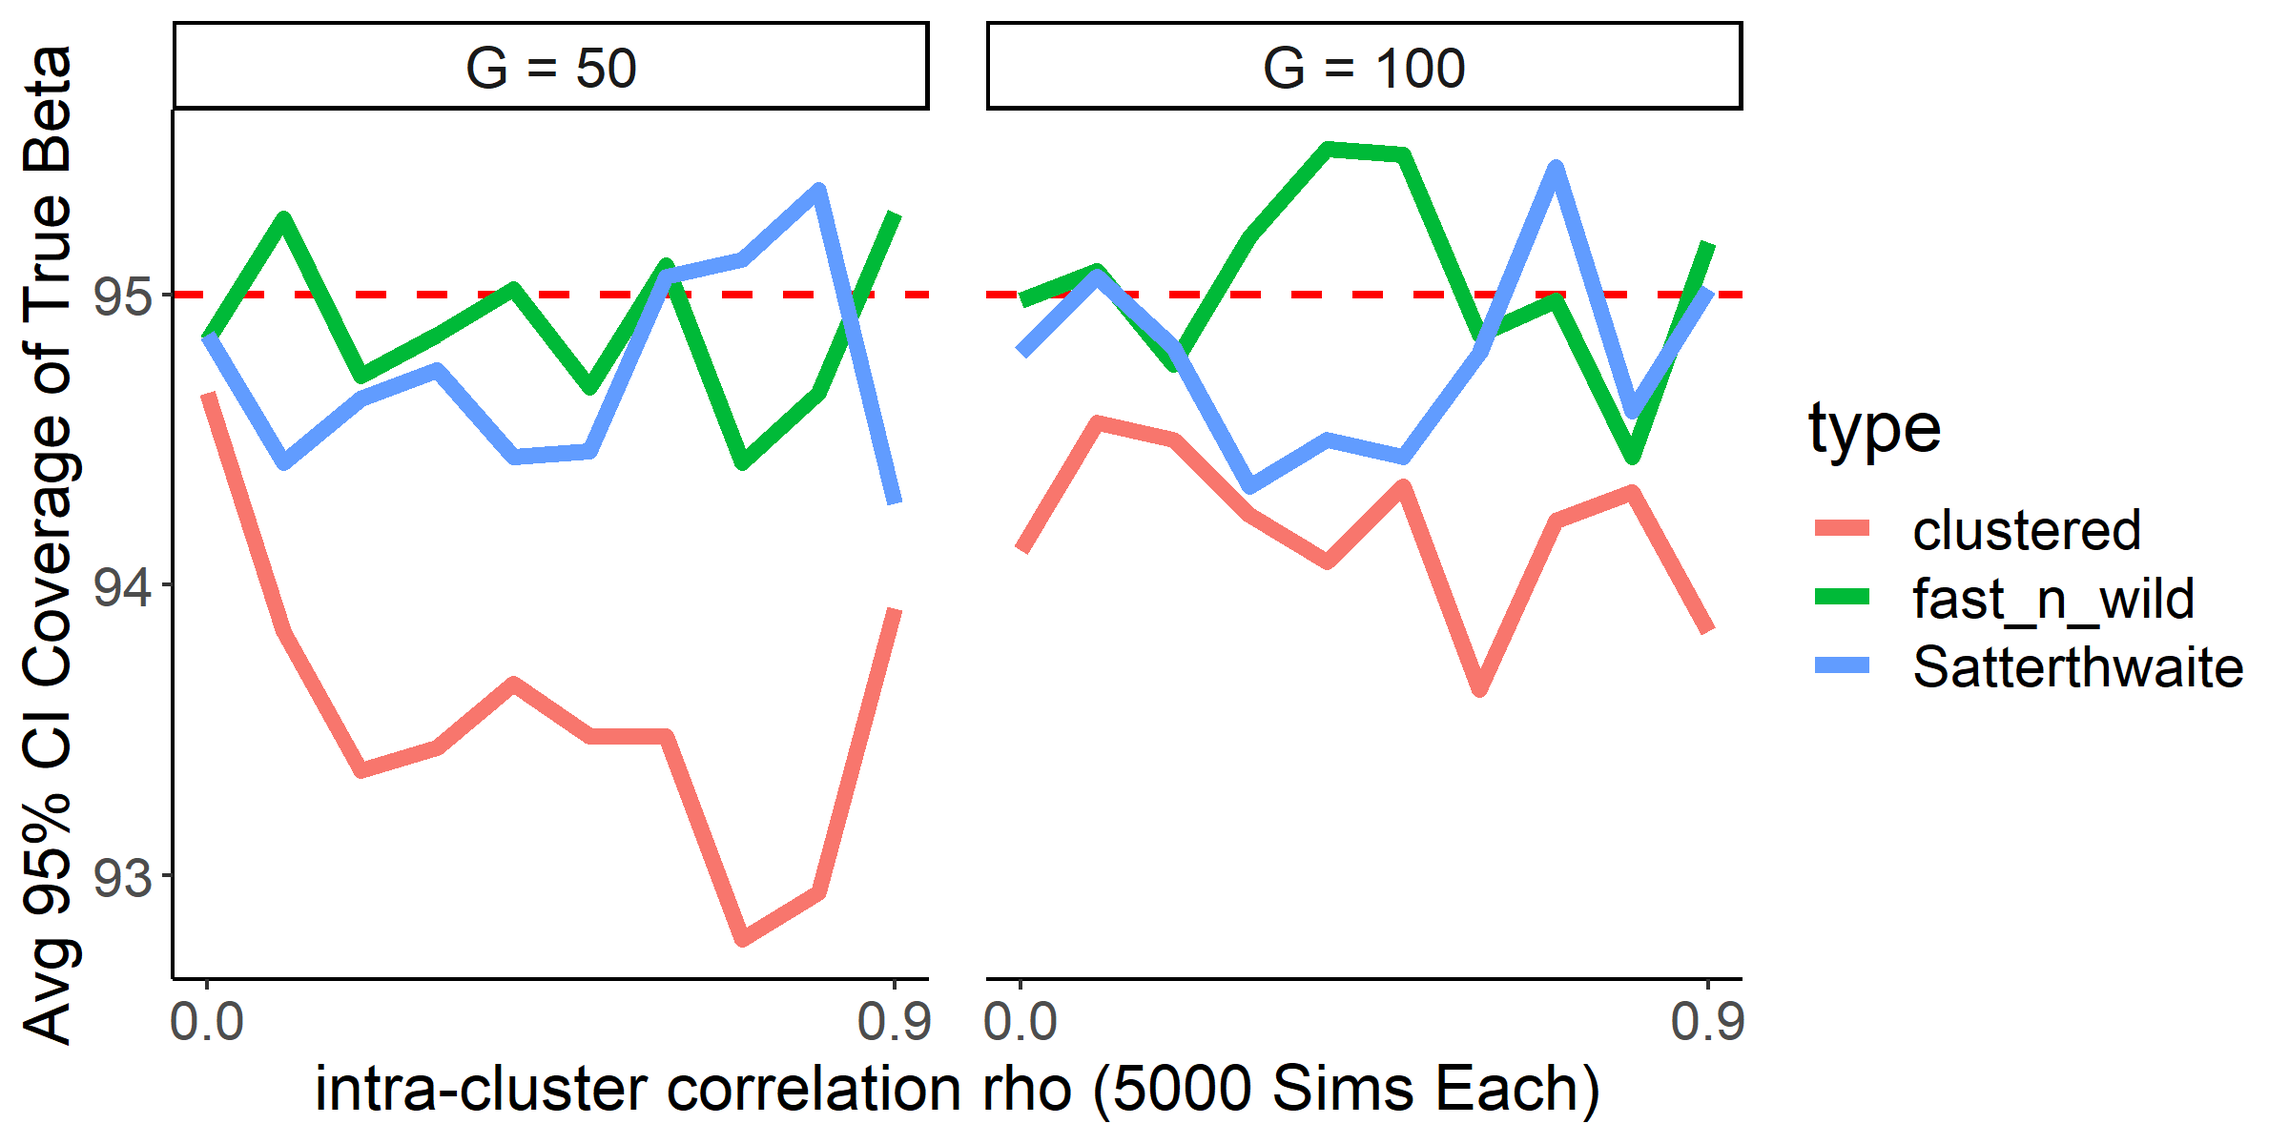
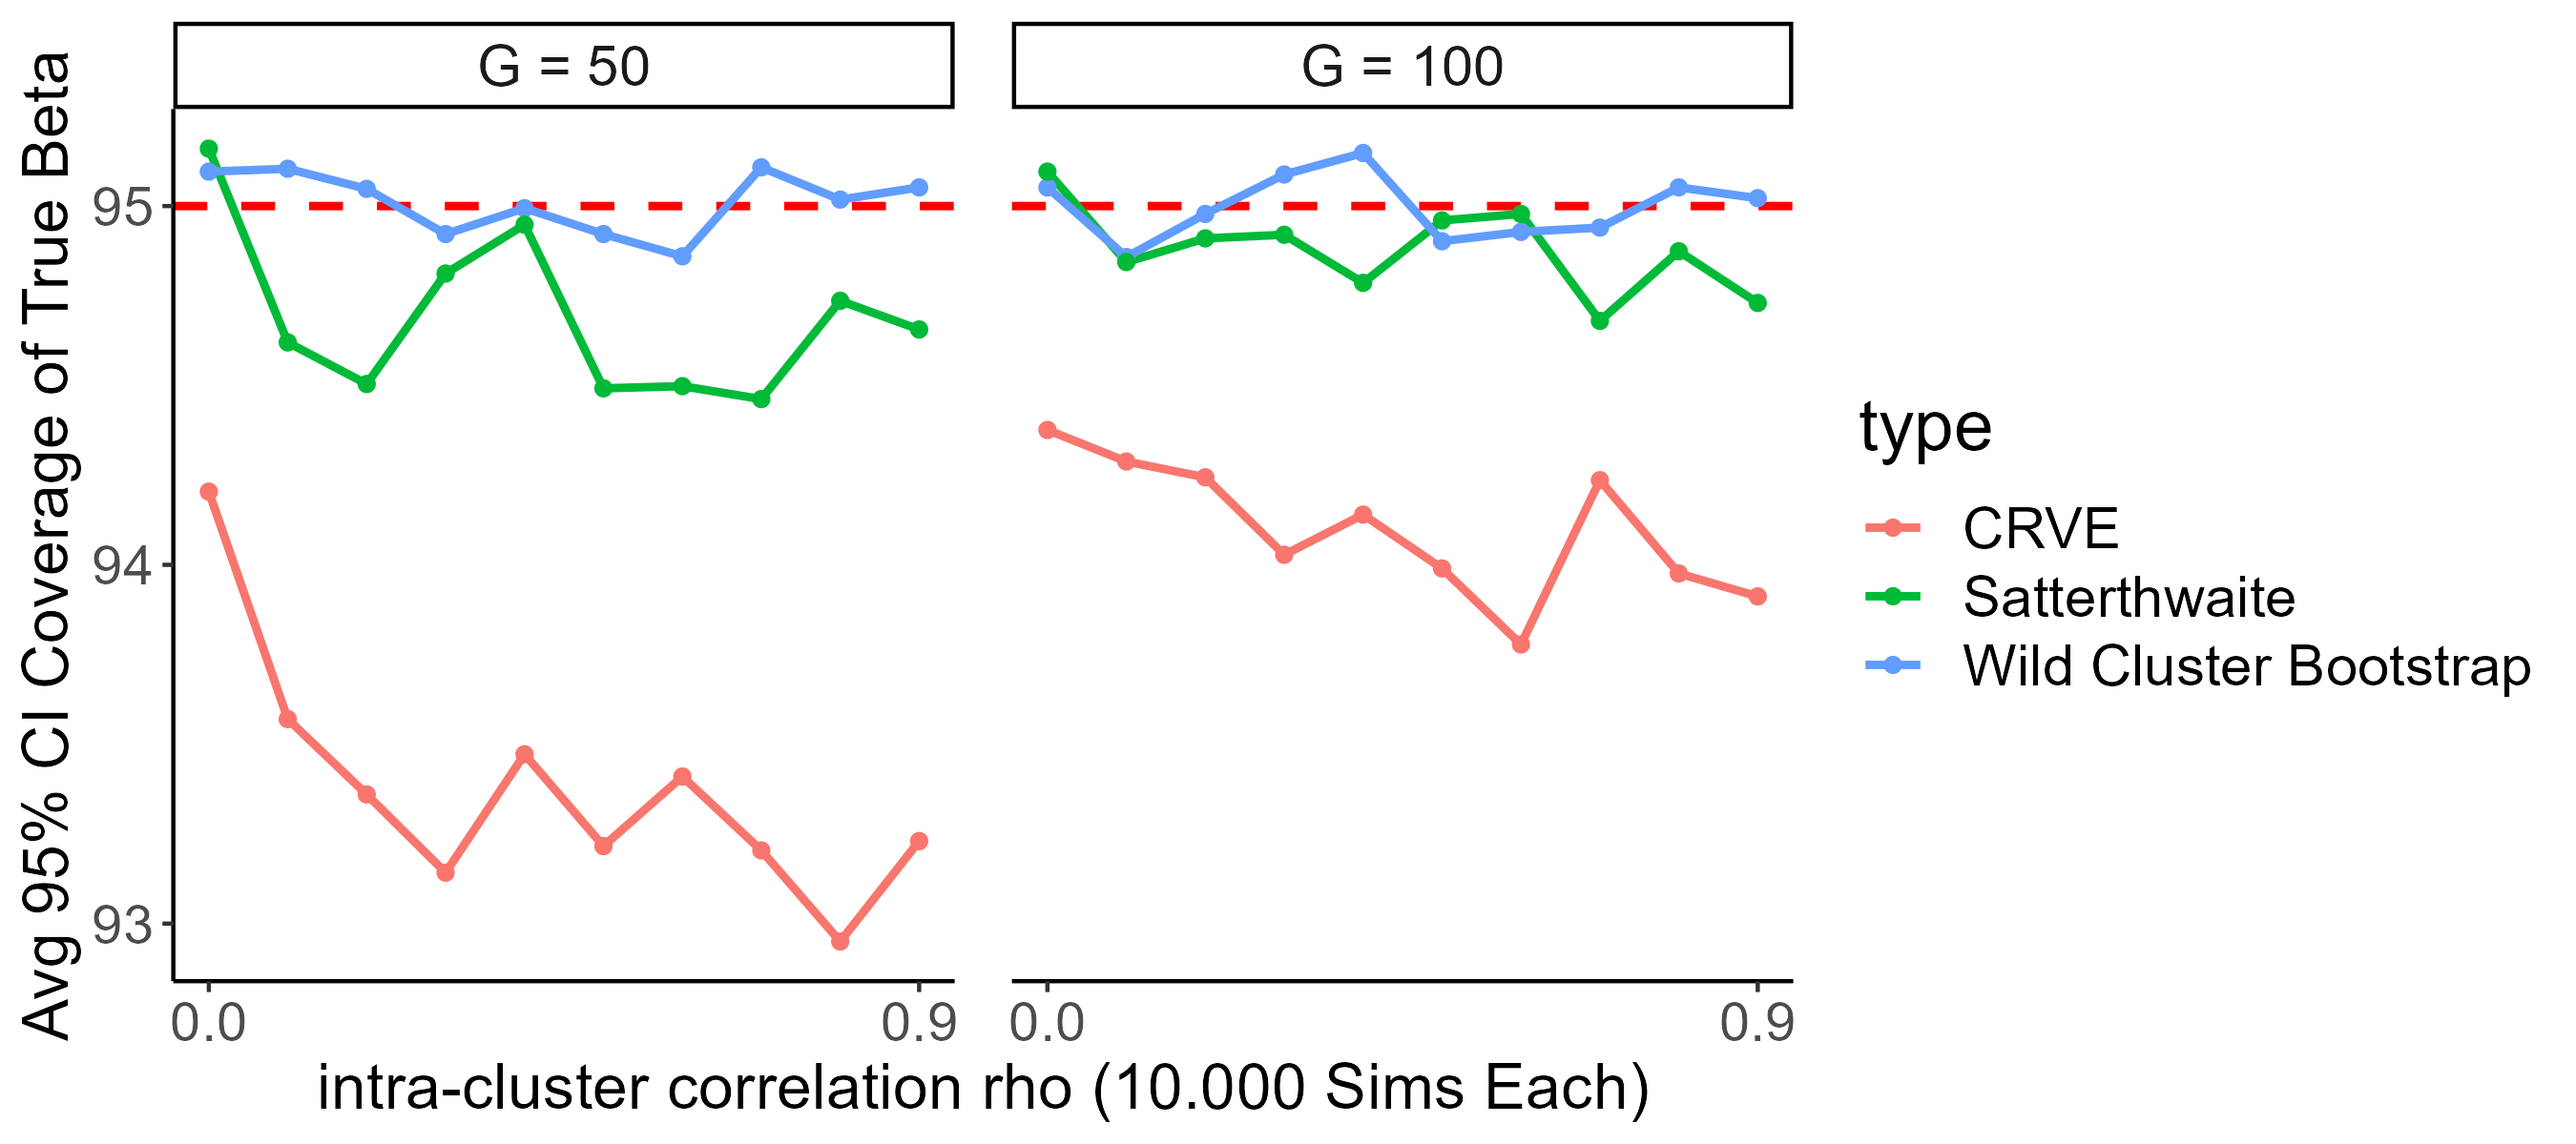
update #4 new figures

diff --git a/content/post/2022-01-29-cluster-robust-inference-when-the-number-of-clusters-is-small-a-horse-race/index.html b/content/post/2022-01-29-cluster-robust-inference-when-the-number-of-clusters-is-small-a-horse-race/index.html
@@ -66,35 +66,34 @@ Figure 2: Simulation results. N = 1000, rho = 0.7, balanced cluster sizes
 </div>
 <div id="simulation-2-wildly-different-cluster-sizes" class="section level4">
 <h4>Simulation 2: Wildly different cluster sizes</h4>
-<p>Instead of simulating balanced cluster sizes, I now follow <a href="https://ageconsearch.umn.edu/record/274639/files/qed_wp_1314.pdf">MacKinnon &amp; Webb</a> and simulate group sizes that mimic the relative size of the US states (minus Washington DC) for <span class="math inline">\(G=50\)</span> and <span class="math inline">\(G = 100\)</span> clusters. The dgp is unchanged, but in parallel to MacKinnon &amp; Webb’s work, I set the number of observations <span class="math inline">\(N\)</span> to <span class="math inline">\(2.000\)</span>. I also increase the number of Monte Carlo simulations to <code>n_sim = 5.000</code> and repeat the analysis for a range of intra-cluster correlations <span class="math inline">\(\rho\)</span>.</p>
+<p>Instead of simulating balanced cluster sizes, I now follow <a href="https://ageconsearch.umn.edu/record/274639/files/qed_wp_1314.pdf">MacKinnon &amp; Webb</a> and simulate group sizes that mimic the relative size of the US states (minus Washington DC) for <span class="math inline">\(G=50\)</span> and <span class="math inline">\(G = 100\)</span> clusters. The dgp is unchanged, but in parallel to MacKinnon &amp; Webb’s work, I set the number of observations <span class="math inline">\(N\)</span> to <span class="math inline">\(2.000\)</span>. I also increase the number of Monte Carlo simulations to <code>n_sim = 10.000</code> and repeat the analysis for a range of intra-cluster correlations <span class="math inline">\(\rho\)</span>.</p>
 <div class="figure" style="text-align: center"><span style="display:block;" id="fig:Figure3"></span>
 <img src="wildly_different.png" alt="Simulation results. N = 2000, 50 and 100 clusters, wildly different cluster sizes" width="75%" />
 <p class="caption">
 Figure 3: Simulation results. N = 2000, 50 and 100 clusters, wildly different cluster sizes
 </p>
 </div>
-<p>Both for <span class="math inline">\(G = 50\)</span> and <span class="math inline">\(G = 100\)</span>, the wild cluster bootstrap and Satterthwaite corrected errors perform equally well and achieve close to 95% coverage for all intra-cluster correlations <span class="math inline">\(\rho\)</span>. The unadjusted CRVE estimates instead tend to over-reject.</p>
+<p>Both for <span class="math inline">\(G = 50\)</span> and <span class="math inline">\(G = 100\)</span>, the wild cluster bootstrap and Satterthwaite corrected errors perform equally well and achieve close to 95% coverage for all intra-cluster correlations <span class="math inline">\(\rho\)</span>. The unadjusted CRVE estimates instead only achieve coverage rates of around 93 and 94%.</p>
 <p>You can reproduce Figure 2 by running</p>
 <pre class="r"><code>wildly_different_sim(n = 2000, n_sims = 5000, workers = 4)</code></pre>
 <p>Once again, note that this function will run for a very long time.</p>
 </div>
 <div id="treatment-effects" class="section level4">
 <h4>Treatment Effects</h4>
-<p>The last simulation investigates a topic that has received considerable attention: regression models where the treatment occurs at the cluster level, but only few clusters are treated (e.g. <a href="https://academic.oup.com/qje/article-abstract/119/1/249/1876068?redirectedFrom=fulltext&amp;login=false">“How much should we trust DiD estimates?</a>“)? For the sake of simplicity, I do not simulate a”full” DiD model with 2-way fixed effects and potential error correlations across time but restrict myself to replacing <span class="math inline">\(X_{ig}\)</span> in the model above by a treatment assignment dummy <span class="math inline">\(D_{ig}\)</span>. (Loosely) following MacKinnon &amp; Webb once again, I then simulate <span class="math inline">\(N=2000\)</span> observations with intra-cluster correlation <span class="math inline">\(\rho = 0.5\)</span> and vary the number of clusters that are treated. The simulations are repeated for different treated proportions of clusters <span class="math inline">\(P \in \{1/50, ..., 1\}\)</span>, where the clusters are a) of equal size, b) US-state sized and sorted in increasing order and c) US-state sized and sorted in decreasing order.</p>
-<pre class="r"><code>treatment_effect_sim(n = 2000, n_sims = 1000, workers = 4)</code></pre>
+<p>The last simulation investigates a topic that has received considerable attention: regression models where the treatment occurs at the cluster level, but only few clusters are treated (e.g. <a href="https://academic.oup.com/qje/article-abstract/119/1/249/1876068?redirectedFrom=fulltext&amp;login=false">“How much should we trust DiD estimates?</a>“)? For the sake of simplicity, I do not simulate a”full” DiD model with 2-way fixed effects and potential error correlations across time but restrict myself to replacing <span class="math inline">\(X_{ig}\)</span> in the model above by a treatment assignment dummy <span class="math inline">\(D_{ig}\)</span> - the simulation hence mirrors a cluster randomized experiment. (Loosely) following MacKinnon &amp; Webb once again, I then simulate <span class="math inline">\(N=2000\)</span> observations with intra-cluster correlation <span class="math inline">\(\rho = 0.5\)</span> and vary the number of clusters that are treated. The simulations are repeated for different proportions of treated clusters <span class="math inline">\(P \in \{1/50, ..., 1\}\)</span>, where the clusters are a) of equal size, b) US-state sized and sorted in increasing order and c) US-state sized and sorted in decreasing order.</p>
+<pre class="r"><code>treatment_effect_sim(n = 2000, n_sims = 10000, workers = 4)</code></pre>
 <div class="figure" style="text-align: center"><span style="display:block;" id="fig:Figure4"></span>
 <img src="treatment_simulations.png" alt="Treatment Effect Simulations, N = 2000, 50 clusters, treatment effects. The x axis denotes the share of treated clusters, either in increasing or decreasing cluster size." width="75%" />
 <p class="caption">
 Figure 4: Treatment Effect Simulations, N = 2000, 50 clusters, treatment effects. The x axis denotes the share of treated clusters, either in increasing or decreasing cluster size.
 </p>
 </div>
-<p>Once again, there is no visible difference in performance between bias-corrected standard errors and the wild cluster bootstrap, but the CRVE tends to over-reject in all three scenarios.</p>
+<p>Once again, both the wild cluster bootstrap and Satterthwaite correction perform well for a wide range of treated clusters. For more extreme shares of treated clusters, the wild cluster bootstrap’s coverage rate approaches 1, while the Satterthwaite corrected CRVE’s coverage rate is as low as the regular CRVE’s, whose coverage rate starts to deviate from the desired coverage level of 95% already at less extreme shares of treated clusters than both bootstrap and Satterthwaite correction.</p>
 </div>
 </div>
 <div id="conclusion" class="section level2">
 <h2>Conclusion</h2>
-<p>So, when should you use Satterthwaite corrected cluster robust standard errors, and when should you rely on the wild cluster bootstrap in case you are facing a small number of clusters problem or data with wildly different cluster sizes? The honest answer is that I still don’t know <a href="#fn1" class="footnote-ref" id="fnref1"><sup>1</sup></a>. My main learning from the simulations above is that the Satterthwaite correction method might perform just as well as the wild cluster bootstrap.</p>
-<p>Overall, I am quite impressed by the performance of the Satterthwaite corrected cluster robust sandwich estimator!</p>
+<p>So, when should you use Satterthwaite corrected cluster robust standard errors, and when should you rely on the wild cluster bootstrap in case you are facing a small number of clusters problem or data with wildly different cluster sizes? The honest answer is that I still don’t know <a href="#fn1" class="footnote-ref" id="fnref1"><sup>1</sup></a>. All in all, my main learning from the simulations above is that the Satterthwaite correction method might perform just as well as the wild cluster bootstrap. I am quite impressed by the performance of the Satterthwaite corrected cluster robust sandwich estimator!</p>
 <!-- ### When the parameter of interest is a treatment effect  -->
 <!-- In a final simulation, I investigate the (probably) most popular regression specification in all of economics: the regression specification of a Difference-in-Differences strategy - a two-way fixed effects model with a binary variable $D$, a treatment effect.   -->
 <!-- Difference-in-Differences models are usually estimated by an  equation similar to  -->
